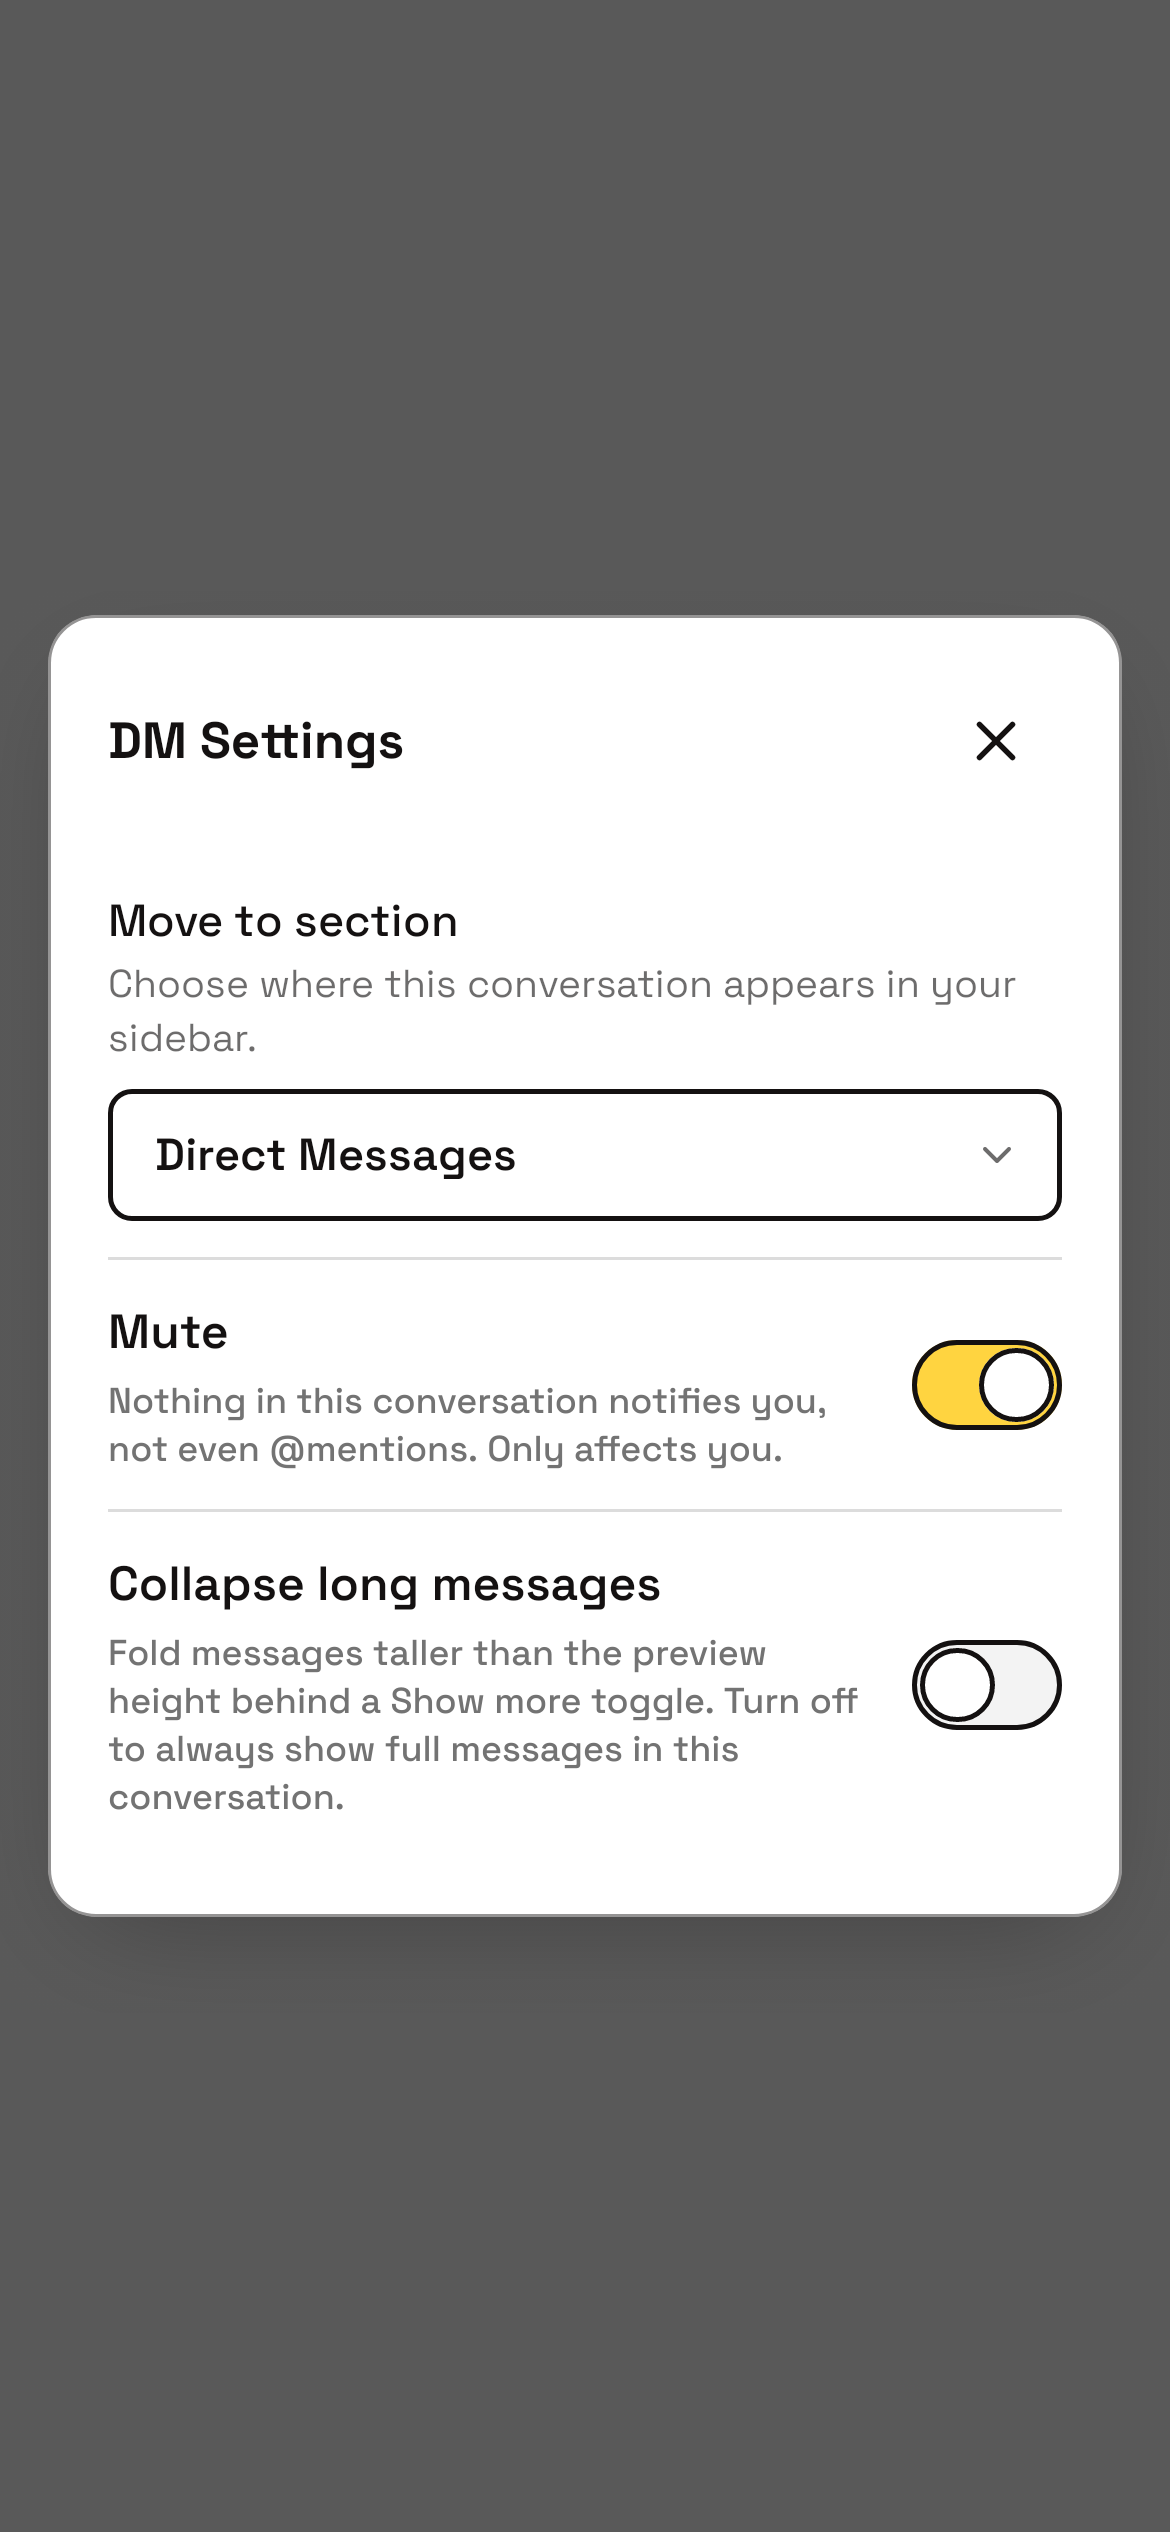
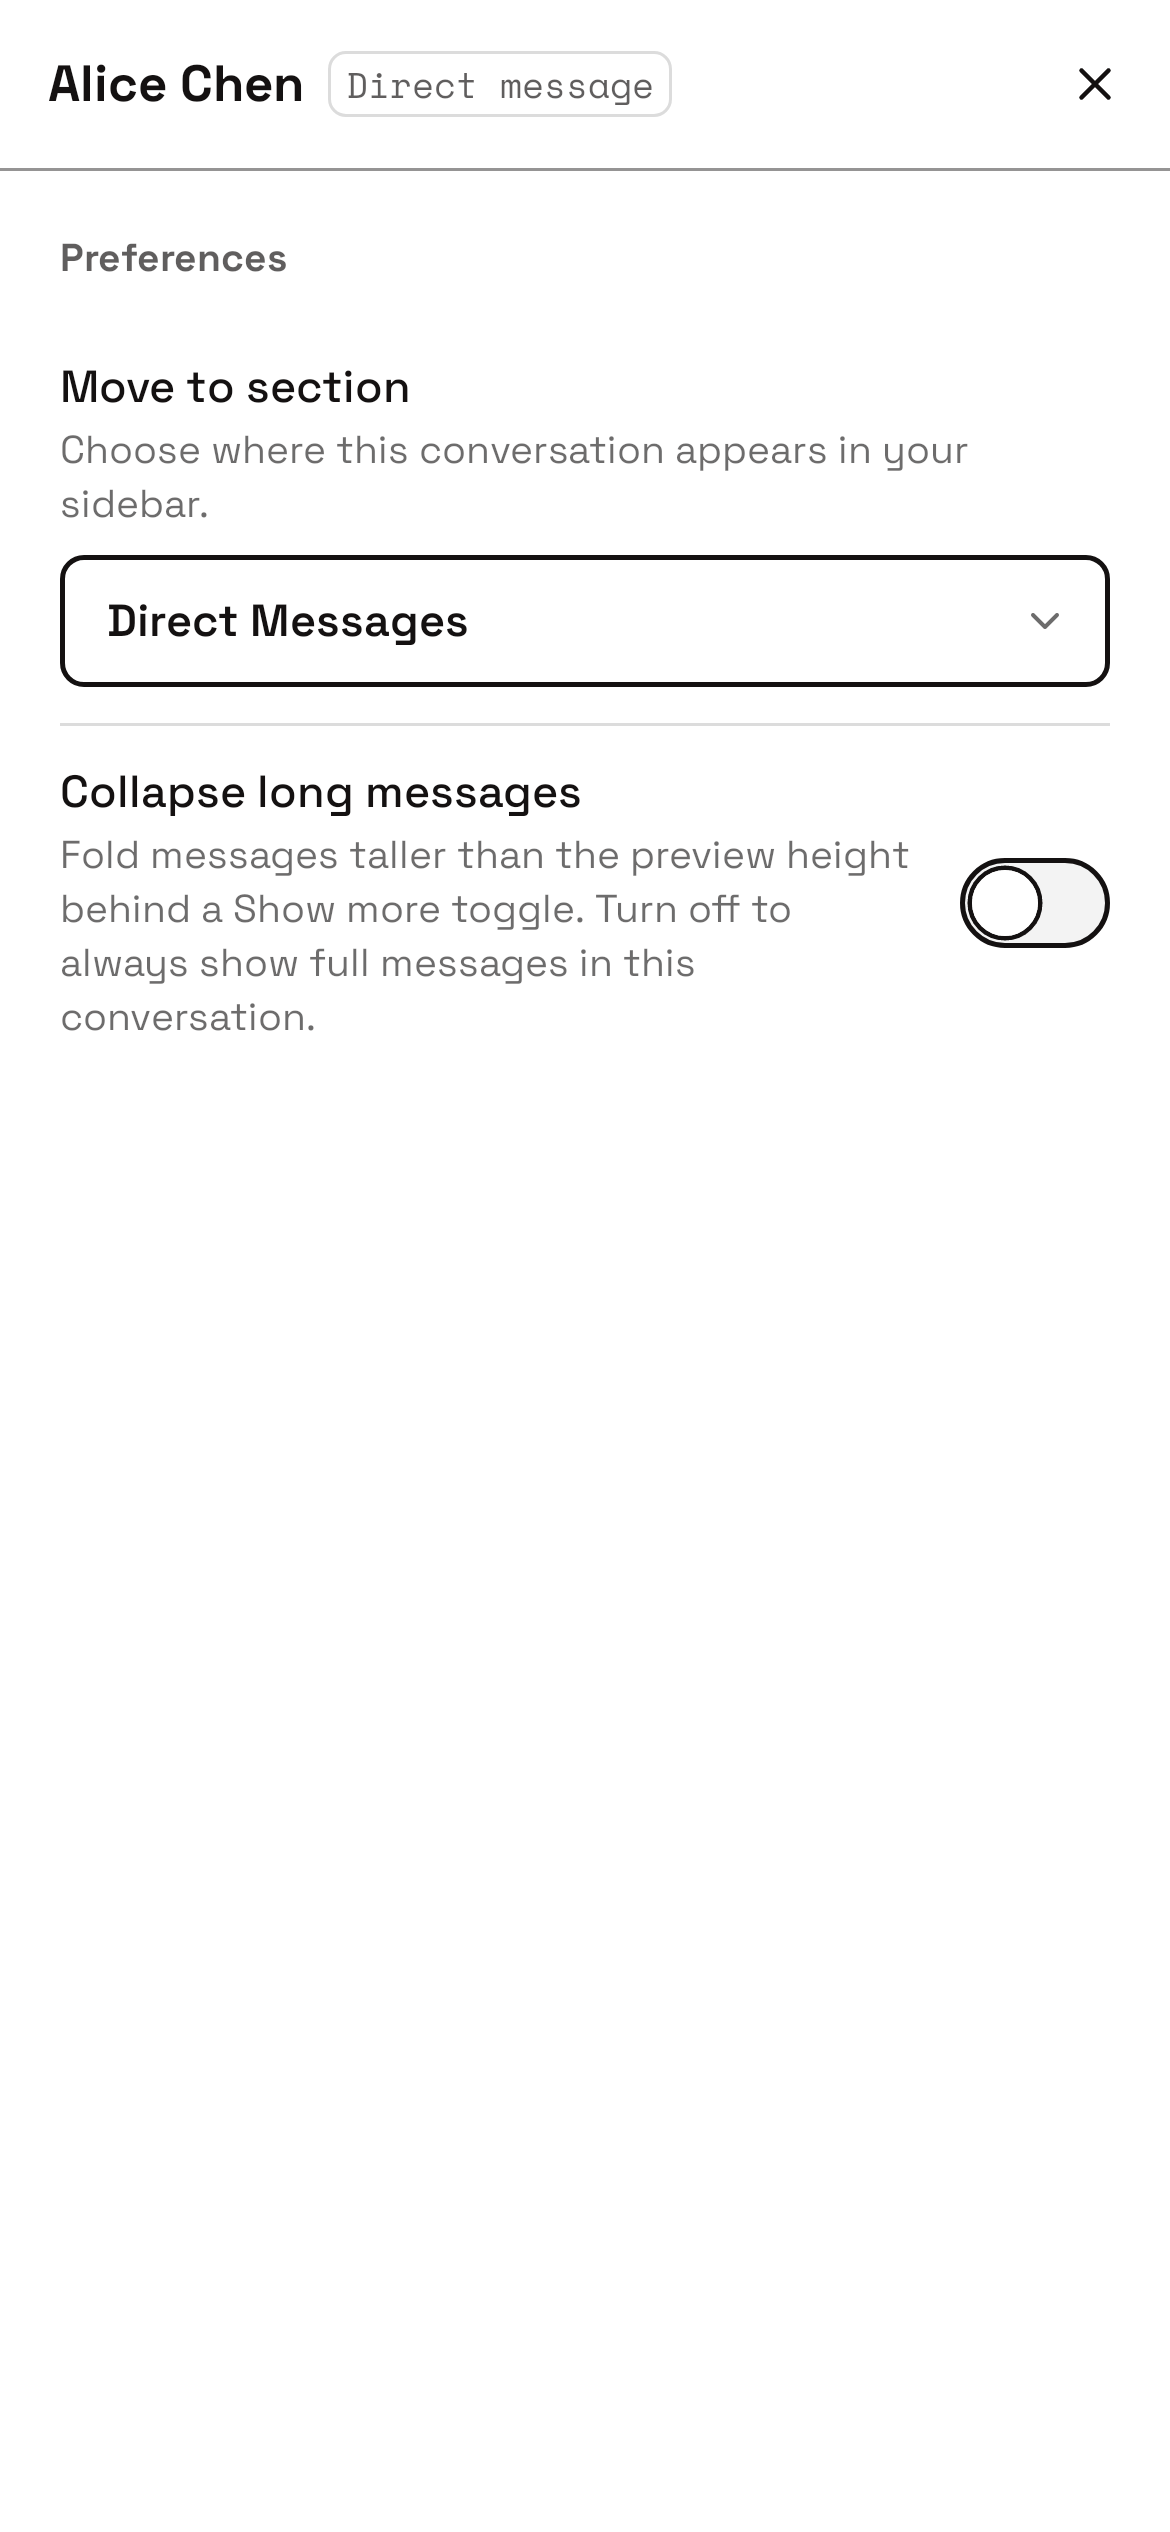
test(screenshots): record the DM settings drawer goldens (run 41777972617)
Recorded on CI at 6afd86e56542: Friday on Pinned with Mute (phone light and
dark, wide light and dark) and a DM with a person at home in Direct Messages
without Mute. Changeset PR number.

diff --git a/change-logs/1.19.2/changesets/dm-settings-page.md b/change-logs/1.19.2/changesets/dm-settings-page.md
@@ -5,7 +5,7 @@ platforms:
   - android
   - ios
   - desktop
-pull_request: TBD
+pull_request: https://github.com/botiverse/mobile/pull/4285
 rollout: full
 ---
 
